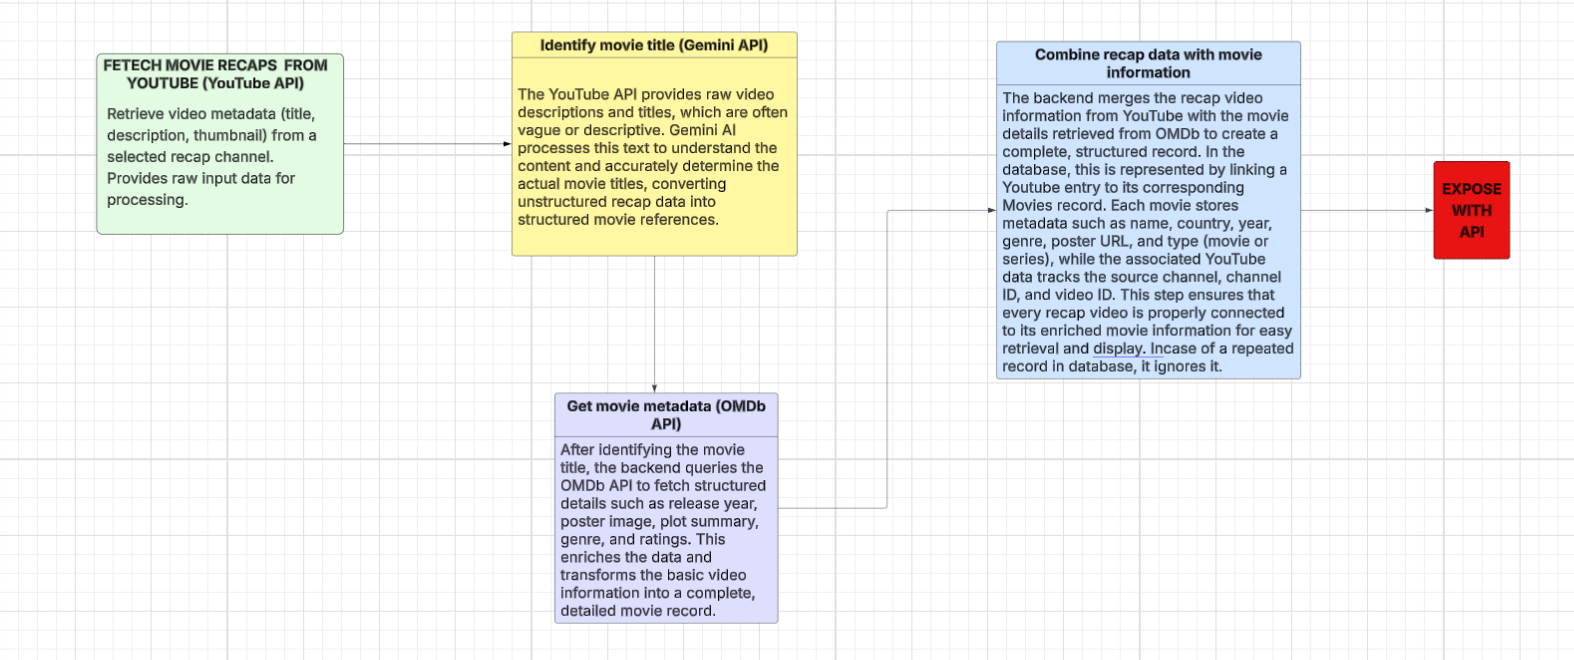
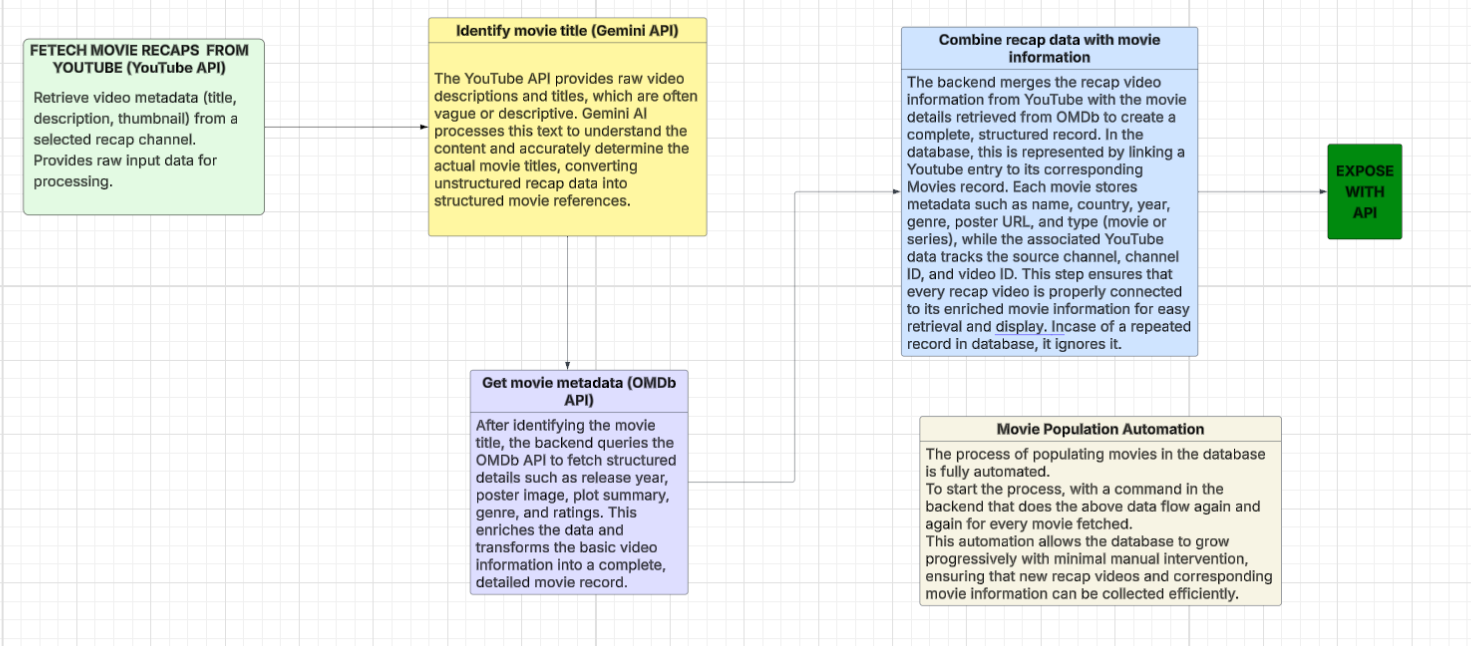
doc: completed doc, added links and diagrams, removed gif

diff --git a/README.md b/README.md
@@ -1,22 +1,21 @@
 # 🎬 RECAPPED
-
 **RECAPPED** is a web platform that helps users discover *high-quality movie recaps* without clickbait, misleading thumbnails, or endless trial-and-error.
-
----
 
 ## 🚀 Elevator Pitch
 
 A curated movie-recap platform that lets users explore, filter, and watch YouTube movie recaps with full context—before committing their time.
 
----
-
-## 🎥 Visuals (to be done next)
+## 🎥 Demo
 
 <p align="center">
-  <!-- Main user flow GIF here -->
+  <a href="https://youtu.be/NPWakxQMpGM">
+    <img 
+      src="https://img.youtube.com/vi/NPWakxQMpGM/maxresdefault.jpg"
+      width="900"
+      alt="Watch the demo"
+    />
+  </a>
 </p>
-
----
 
 ## 📖 About The Project
 
@@ -34,7 +33,7 @@ Movie recap lovers face a surprisingly frustrating experience:
 
 I found myself constantly abandoning recaps halfway through—not because the movies were bad, but because the **discovery process was broken**.
 
----
+
 
 ### The Solution
 
@@ -48,8 +47,6 @@ Instead of chasing random videos, users can:
 - Rate movies to help future users
 
 RECAPPED puts context firstso users know exactly what they’re about to watch.
-
----
 
 
 ## 🛠 Built With
@@ -75,7 +72,7 @@ RECAPPED puts context firstso users know exactly what they’re about to watch.
 - <img src="https://cdn.jsdelivr.net/gh/devicons/devicon/icons/docker/docker-original.svg" height="20" alt="docker logo"  />
   <img width="12" />Docker
 - <img src="https://cdn.jsdelivr.net/gh/devicons/devicon/icons/postgresql/postgresql-original.svg" height="15" alt="postgresql logo"  /> PostgreSQL(image)
----
+
 
 ## ✨ Key Features
 
@@ -91,7 +88,7 @@ RECAPPED puts context firstso users know exactly what they’re about to watch.
 - ✅ Clean REST API built with DRF
 - ✅ Fully containerized with Docker
 
----
+
 
 ## 🧠 How It Works (High Level)
 
@@ -109,6 +106,84 @@ RECAPPED puts context firstso users know exactly what they’re about to watch.
 <p align="center">
   <img src="./imgs/DataFlow.png" alt="Data Flow" width="1200"/>
 </p>
----
+
+## 🔮 What's Next
+
+The project is still evolving, and several improvements are planned for the next stages:
+
+- **Containerized deployment** – The application has been Dockerized to ensure consistent environments across development and production.
+- **Cloud deployment** – The next step is deploying the platform to a cloud provider (May be AWS) to make it publicly accessible.
+- **Public access** – Once deployed, the platform will be available for movie recap lover and for all who enjoy story telling to explore and discover high-quality recap content.
+- **Feature expansion** – Add more filtering options, improved recommendations, and better recap discovery tools.
+
+The goal is to make **RECAPPED** a reliable place where people can easily discover quality movie recaps without the usual noise of clickbait content on youtube.
+
+## ▶ Running the Project Locally
+
+You can run the entire project locally using Docker.
+
+### 1. Clone the repository
+
+```bash
+git clone <https://github.com/MagMc007/Recapped>
+```
+2. Enter the Recapped folder
+```
+cd Recapped
+```
+Then Run
+```
+docker-compose up
+```
+This will run database, backend and frontend services
+
+## 📥 Populating Movies
+
+If you want to automatically populate the database with movie recap data, follow the steps below.
+
+### 1. Set up the environment file
+
+Create an environment file and add the required API keys:
+
+```
+YOUTUBE_API_KEY=...
+OMBD_API_KEY=...
+GEMINI_API_KEY_1=....
+GEMINI_API_KEY_2=....
+```
+It is recommended to prepare **at least 4 Gemini API keys**, since you may run out of request quota during the process.
+### 2. Select the YouTube channel source
+
+Then proceed to the folder: 
+```
+./backend/movies/management/commands/
+```
+Open the file:
+```
+populate_movies.py
+```
+Inside this file you will find a **dictionary containing selected YouTube channels**.  
+These channels are chosen because they provide **accurate descriptions of the movies they recap**, which increases the likelihood that the AI can correctly identify the movie.
+
+Choose **one channel** from the dictionary and **comment out the others**.
+
+### 3. Enter the backend container
+
+Navigate to the backend directory:
 
 
+Then go back to the folder: 
+```
+../backend
+```
+Then open a shell inside the Django container:
+
+```
+docker exec -it my_django_backend bash
+```
+
+then run the population command:
+```
+python manage.py populate_movies
+```
+This will trigger the automatic process described in the data flow diagram.
